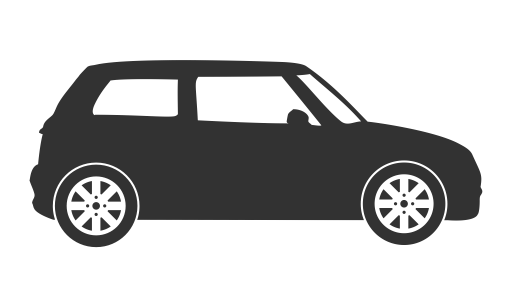
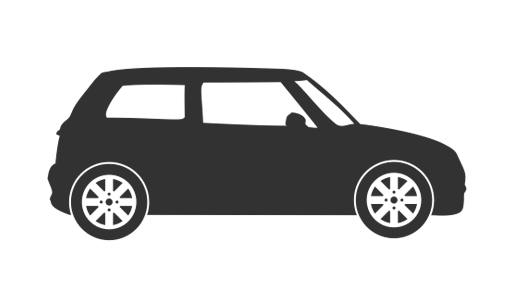
Added cab selector and car image to result

Changed region(s): [[0.0312, 0.1759, 0.9688, 0.8208]]

diff --git a/css/custom-styles-result.css b/css/custom-styles-result.css
@@ -105,3 +105,37 @@ img {
     padding-right: 4px;
 }
 
+.car-type-sidebar{
+    position: fixed;
+    width: 42%;
+    top: 190px;
+
+    border-radius: 10px 0px 0px 10px;
+    background-color: rgba(252,252,252,.85);
+    box-shadow: -3px 3px 3px rgba(4,4,4,.4);
+
+    padding-top: 10px;
+    padding-bottom: 5px;
+    padding-left: 10px;
+    padding-right: 10px;
+}
+
+.margin-less-text-cab {
+    margin: 0px;
+    font-weight: bold;
+    color: rgb(2,160,225);
+    font-size: 150%;
+}
+
+.car-type-sidebar > div{
+    position: relative;
+}
+
+.cab-type-img > div {
+    padding: 0px;
+}
+
+.cab-type-check {
+    position: relative;
+    top: -10px;
+}

diff --git a/result.php b/result.php
@@ -432,6 +432,60 @@
 						<button type="submit" class="btn btn-default btn-sm btn-block">Let's Go</button>
 					</div>
 				</div><!-- From To Side Selector -->
+				
+
+				<div class="row car-type-sidebar">
+					<div class="row">
+						<div class="col-xs-12">
+							<h3 class="margin-less-text-cab">Cab Type</h3>
+						</div>
+					</div>
+					
+
+					<div class="row cab-type-img" style="width:120%">
+						<div class="col-xs-2">
+							<div class="row">
+								<div class="col-xs-12"><img class="img-responsive" src="img/cab-type/auto.png" alt=""></div>
+								<div class="col-xs-offset-4 col-xs-3">
+									<input class="cab-type-check" type="checkbox" style="margin-top:0px;">
+								</div>
+							</div>
+						</div>
+						<div class="col-xs-2">
+							<div class="row">
+								<div class="col-xs-12"><img class="img-responsive" src="img/cab-type/hatch.png" alt=""></div>
+								<div class="col-xs-offset-4 col-xs-3">
+									<input class="cab-type-check" type="checkbox" style="margin-top:0px;">
+								</div>
+							</div>
+						</div>
+						<div class="col-xs-2">
+							<div class="row">
+								<div class="col-xs-12"><img class="img-responsive" src="img/cab-type/sedan.png" alt=""></div>
+								<div class="col-xs-offset-4 col-xs-3">
+									<input class="cab-type-check" type="checkbox" style="margin-top:0px;">
+								</div>
+							</div>
+						</div>
+						<div class="col-xs-2">
+							<div class="row">
+								<div class="col-xs-12"><img class="img-responsive" src="img/cab-type/suv.png" alt=""></div>
+								<div class="col-xs-offset-4 col-xs-3">
+									<input class="cab-type-check" type="checkbox" style="margin-top:0px;">
+								</div>
+							</div>
+						</div>
+						<div class="col-xs-2">
+							<div class="row">
+								<div class="col-xs-12"><img class="img-responsive" src="img/cab-type/limo.png" alt=""></div>
+								<div class="col-xs-offset-4 col-xs-3">
+									<input class="cab-type-check" type="checkbox" style="margin-top:0px;">
+								</div>
+							</div>
+						</div>
+					</div> <!-- Car Type-->
+				</div><!-- Car Type Sidebar -->
+
 				<div class="img-custom">
 				</div>	
 				<div class="white-gradient">
